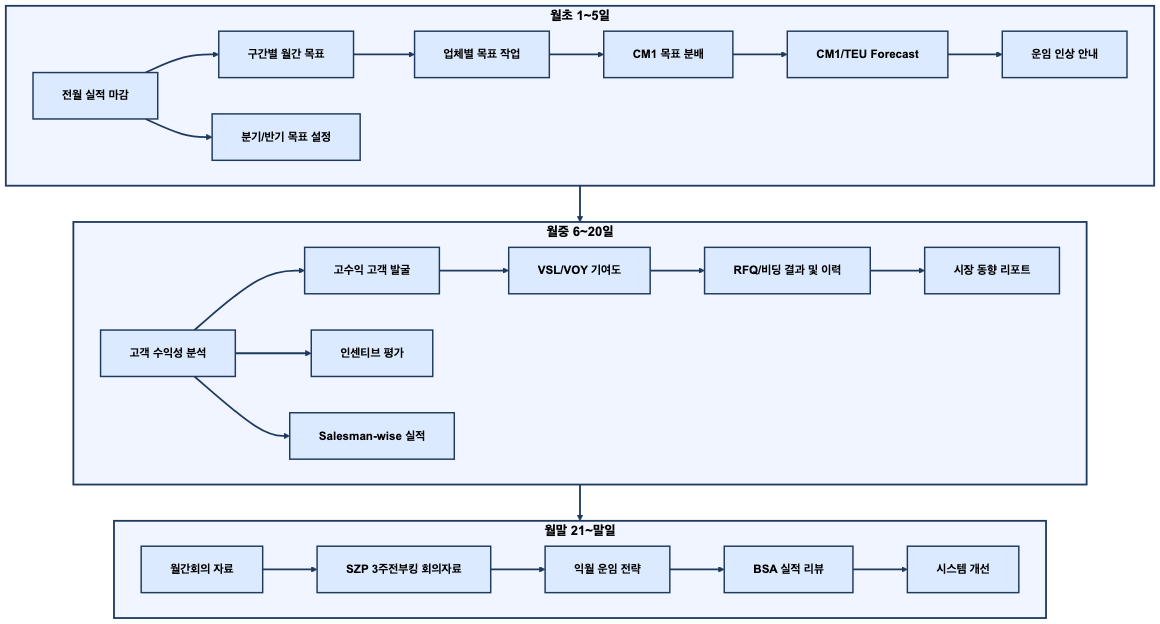
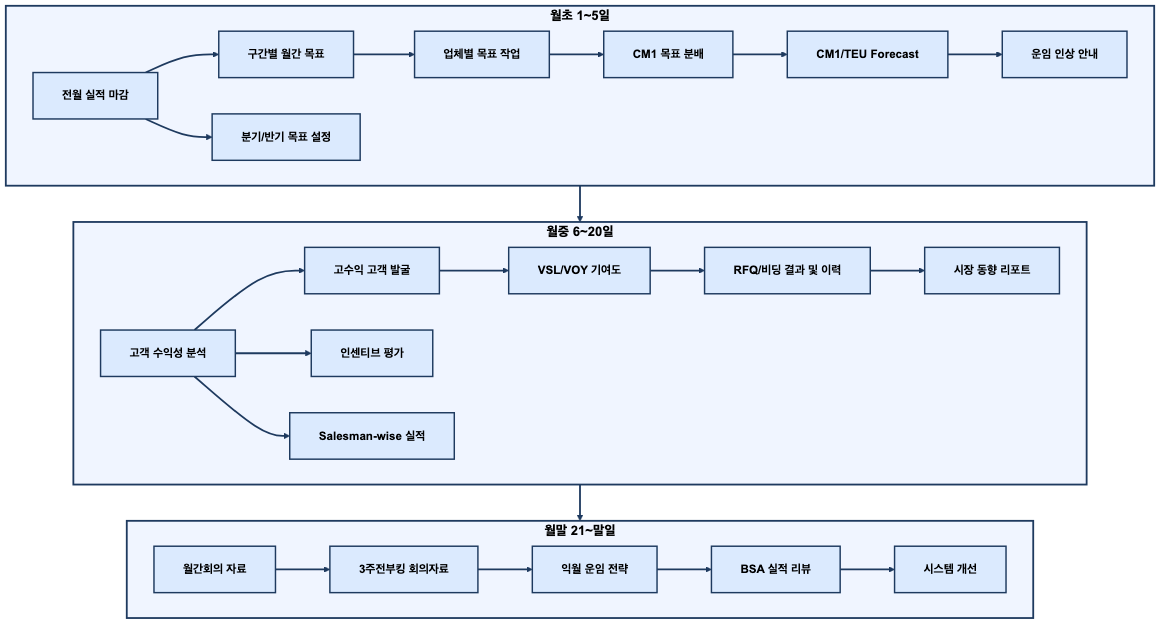
Remove SZP from all locations

Changed region(s): [[0.2793, 0.8526, 0.9, 0.9744], [0.0931, 0.8526, 0.2483, 1.0]]

diff --git a/index.html b/index.html
@@ -503,7 +503,7 @@ flowchart TD
 
     subgraph LATE["월말 (21~말일)"]
         L1["월간회의 자료 작성"]
-        L5["SZP 3주전부킹 회의자료"]
+        L5["3주전부킹 회의자료"]
         L2["익월 운임 전략 수립"]
         L3["BSA 대비 실적 리뷰"]
         L4["시스템 개선사항 정리"]
@@ -752,7 +752,7 @@ flowchart LR
         <table>
             <tr><th>장표명</th><th>용도</th><th>최종 수정</th></tr>
             <tr><td>주차별 운임변동 확인</td><td>주요 항로별 운임 변동 추이 모니터링</td><td>2026-03-31</td></tr>
-            <tr><td>SZP 3주전부킹 회의자료</td><td>3주전 부킹 현황 기반 임원 보고용 대시보드</td><td>2026-04-14</td></tr>
+            <tr><td>3주전부킹 회의자료</td><td>3주전 부킹 현황 기반 임원 보고용 대시보드</td><td>2026-04-14</td></tr>
             <tr><td>bkg pattern</td><td>고객/항로별 부킹 패턴 분석</td><td>2026-02-04</td></tr>
             <tr><td>booking snapshot</td><td>주간 부킹 현황 스냅샷</td><td>2026-04-08</td></tr>
             <tr><td>부킹 캔슬 관리 (Q)</td><td>고캔슬 고객 식별 및 캔슬 비율 모니터링</td><td>2026-04-10</td></tr>
@@ -1010,7 +1010,7 @@ flowchart LR
 | 장표명 | 용도 | 최종 수정 |
 |--------|------|-----------|
 | 주차별 운임변동 확인 | 주요 항로별 운임 변동 추이 모니터링 | 2026-03-31 |
-| SZP 3주전부킹 회의자료 | 3주전 부킹 현황 기반 임원 보고용 대시보드 | 2026-04-14 |
+| 3주전부킹 회의자료 | 3주전 부킹 현황 기반 임원 보고용 대시보드 | 2026-04-14 |
 | bkg pattern | 고객/항로별 부킹 패턴 분석 | 2026-02-04 |
 | booking snapshot | 주간 부킹 현황 스냅샷 | 2026-04-08 |
 | 부킹 캔슬 관리 (Q) | 고캔슬 고객 식별 및 캔슬 비율 모니터링 | 2026-04-10 |
